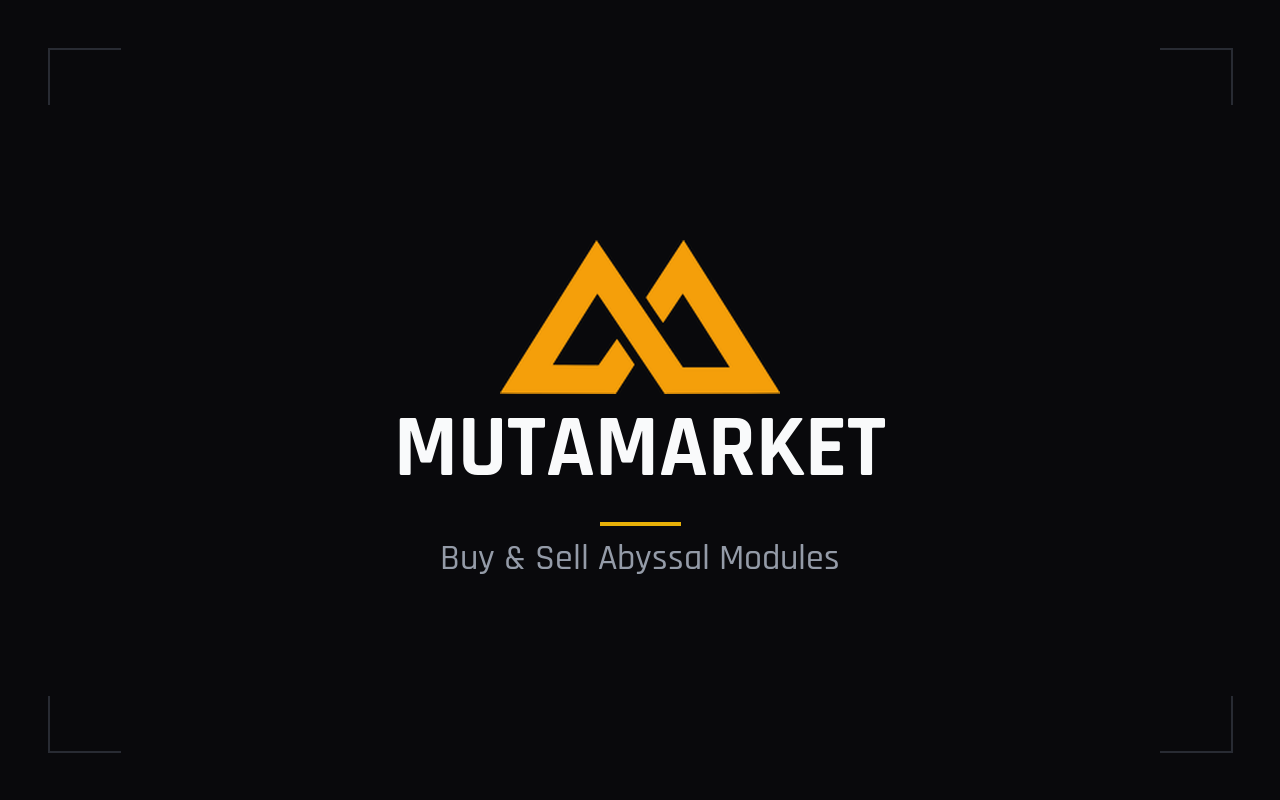
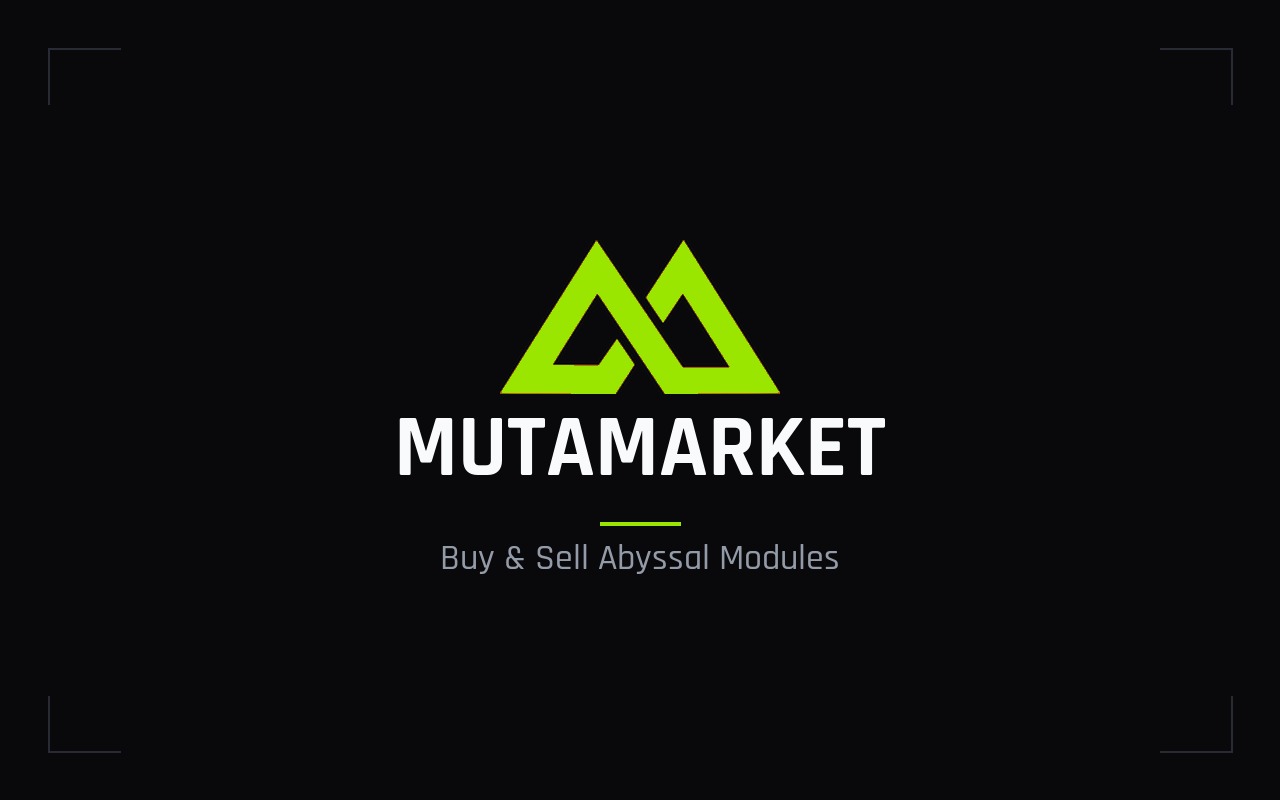
feat: the theme lime in embeds and OpenGraph cards
The theme-color meta tag Discord and others take the embed strip from, the card renderer's accent and corner mark, and the static OpenGraph and calculator images move from the legacy amber to the theme's lime.

Changed region(s): [[0.375, 0.3125, 0.625, 0.5], [0.4688, 0.625, 0.5312, 0.6562]]

diff --git a/frontend/src/lib/meta.test.ts b/frontend/src/lib/meta.test.ts
@@ -103,7 +103,7 @@ describe('buildMetaTags without a page image', () => {
       'property:twitter:url=https://mutamarket.com/donations',
       'name:twitter:card=summary_large_image',
       'name:og:site_name=mutamarket.com',
-      'name:theme-color=#f59f0a',
+      'name:theme-color=#9ae600',
       'name:twitter:site=mutamarket.com',
       'name:og:locale=en_US',
       'name:og:type=website',
@@ -143,7 +143,7 @@ describe('buildMetaTags with a page image', () => {
       'property:og:image:width=600',
       'property:og:image:height=315',
       'name:og:site_name=mutamarket.com',
-      'name:theme-color=#f59f0a',
+      'name:theme-color=#9ae600',
       'name:twitter:site=mutamarket.com',
       'name:og:locale=en_US',
       'name:og:type=website',

diff --git a/frontend/src/lib/components/page-meta.svelte.test.ts b/frontend/src/lib/components/page-meta.svelte.test.ts
@@ -58,7 +58,7 @@ describe('page-meta.svelte', () => {
     );
     expect(content('name', 'twitter:card')).toBe('summary_large_image');
     expect(content('name', 'og:site_name')).toBe('mutamarket.com');
-    expect(content('name', 'theme-color')).toBe('#f59f0a');
+    expect(content('name', 'theme-color')).toBe('#9ae600');
     expect(content('name', 'twitter:site')).toBe('mutamarket.com');
     expect(content('name', 'og:locale')).toBe('en_US');
     expect(content('name', 'og:type')).toBe('website');

diff --git a/frontend/src/lib/meta.ts b/frontend/src/lib/meta.ts
@@ -25,7 +25,7 @@ const DEFAULT_IMAGE: MetaImage = {
 const IMAGE_TYPE = 'image/png';
 
 /** The amber brand accent browsers tint the UI with. */
-const THEME_COLOR = '#f59f0a';
+const THEME_COLOR = '#9ae600';
 
 const SITE_NAME = 'mutamarket.com';
 

diff --git a/src/og/svg.rs b/src/og/svg.rs
@@ -27,9 +27,9 @@ const ARROW: &[u8] = include_bytes!("../../assets/img/arrow.png");
 /// Legacy `public/img/arrow_left.png`, tiled along a negative roll bar.
 const ARROW_LEFT: &[u8] = include_bytes!("../../assets/img/arrow_left.png");
 
-/// Legacy `public/img/logo-amber.png`, the mark in the corner of the
-/// 600x315 cards.
-const LOGO_AMBER: &[u8] = include_bytes!("../../assets/img/logo-amber.png");
+/// The mark in the corner of the 600x315 cards: the legacy
+/// `logo-amber.png` redrawn in the theme lime from the favicon SVG.
+const LOGO: &[u8] = include_bytes!("../../assets/img/logo.png");
 
 /// Where the per-type and per-attribute icons live, the legacy
 /// `public_path('img/icons/{id}.png')`. Read from disk rather than compiled
@@ -56,7 +56,7 @@ impl Texture {
                 data_uri(DIAMOND),
                 data_uri(ARROW),
                 data_uri(ARROW_LEFT),
-                data_uri(LOGO_AMBER),
+                data_uri(LOGO),
             ]
         });
 

diff --git a/src/og/cards.rs b/src/og/cards.rs
@@ -38,8 +38,9 @@ const COLOR_MUTED: &str = "hsl(220 10% 62%)";
 /// Legacy `ModuleHeader::TEXT_COLOR`, shared by every card headline.
 const COLOR_TEXT: &str = "hsl(210 20% 98%)";
 
-/// Legacy `CharacterCard::COLOR_ACCENT`, the amber rule and corner dots.
-const COLOR_ACCENT: &str = "hsl(45 93% 47%)";
+/// Legacy `CharacterCard::COLOR_ACCENT`, the rule and corner dots, in the
+/// theme lime instead of the legacy amber.
+const COLOR_ACCENT: &str = "hsl(80 100% 45%)";
 
 /// Legacy `ModuleAttribute::BACKGROUND_COLOR`, one shade above the card.
 const COLOR_ROW: &str = "hsl(228 13% 7%)";
